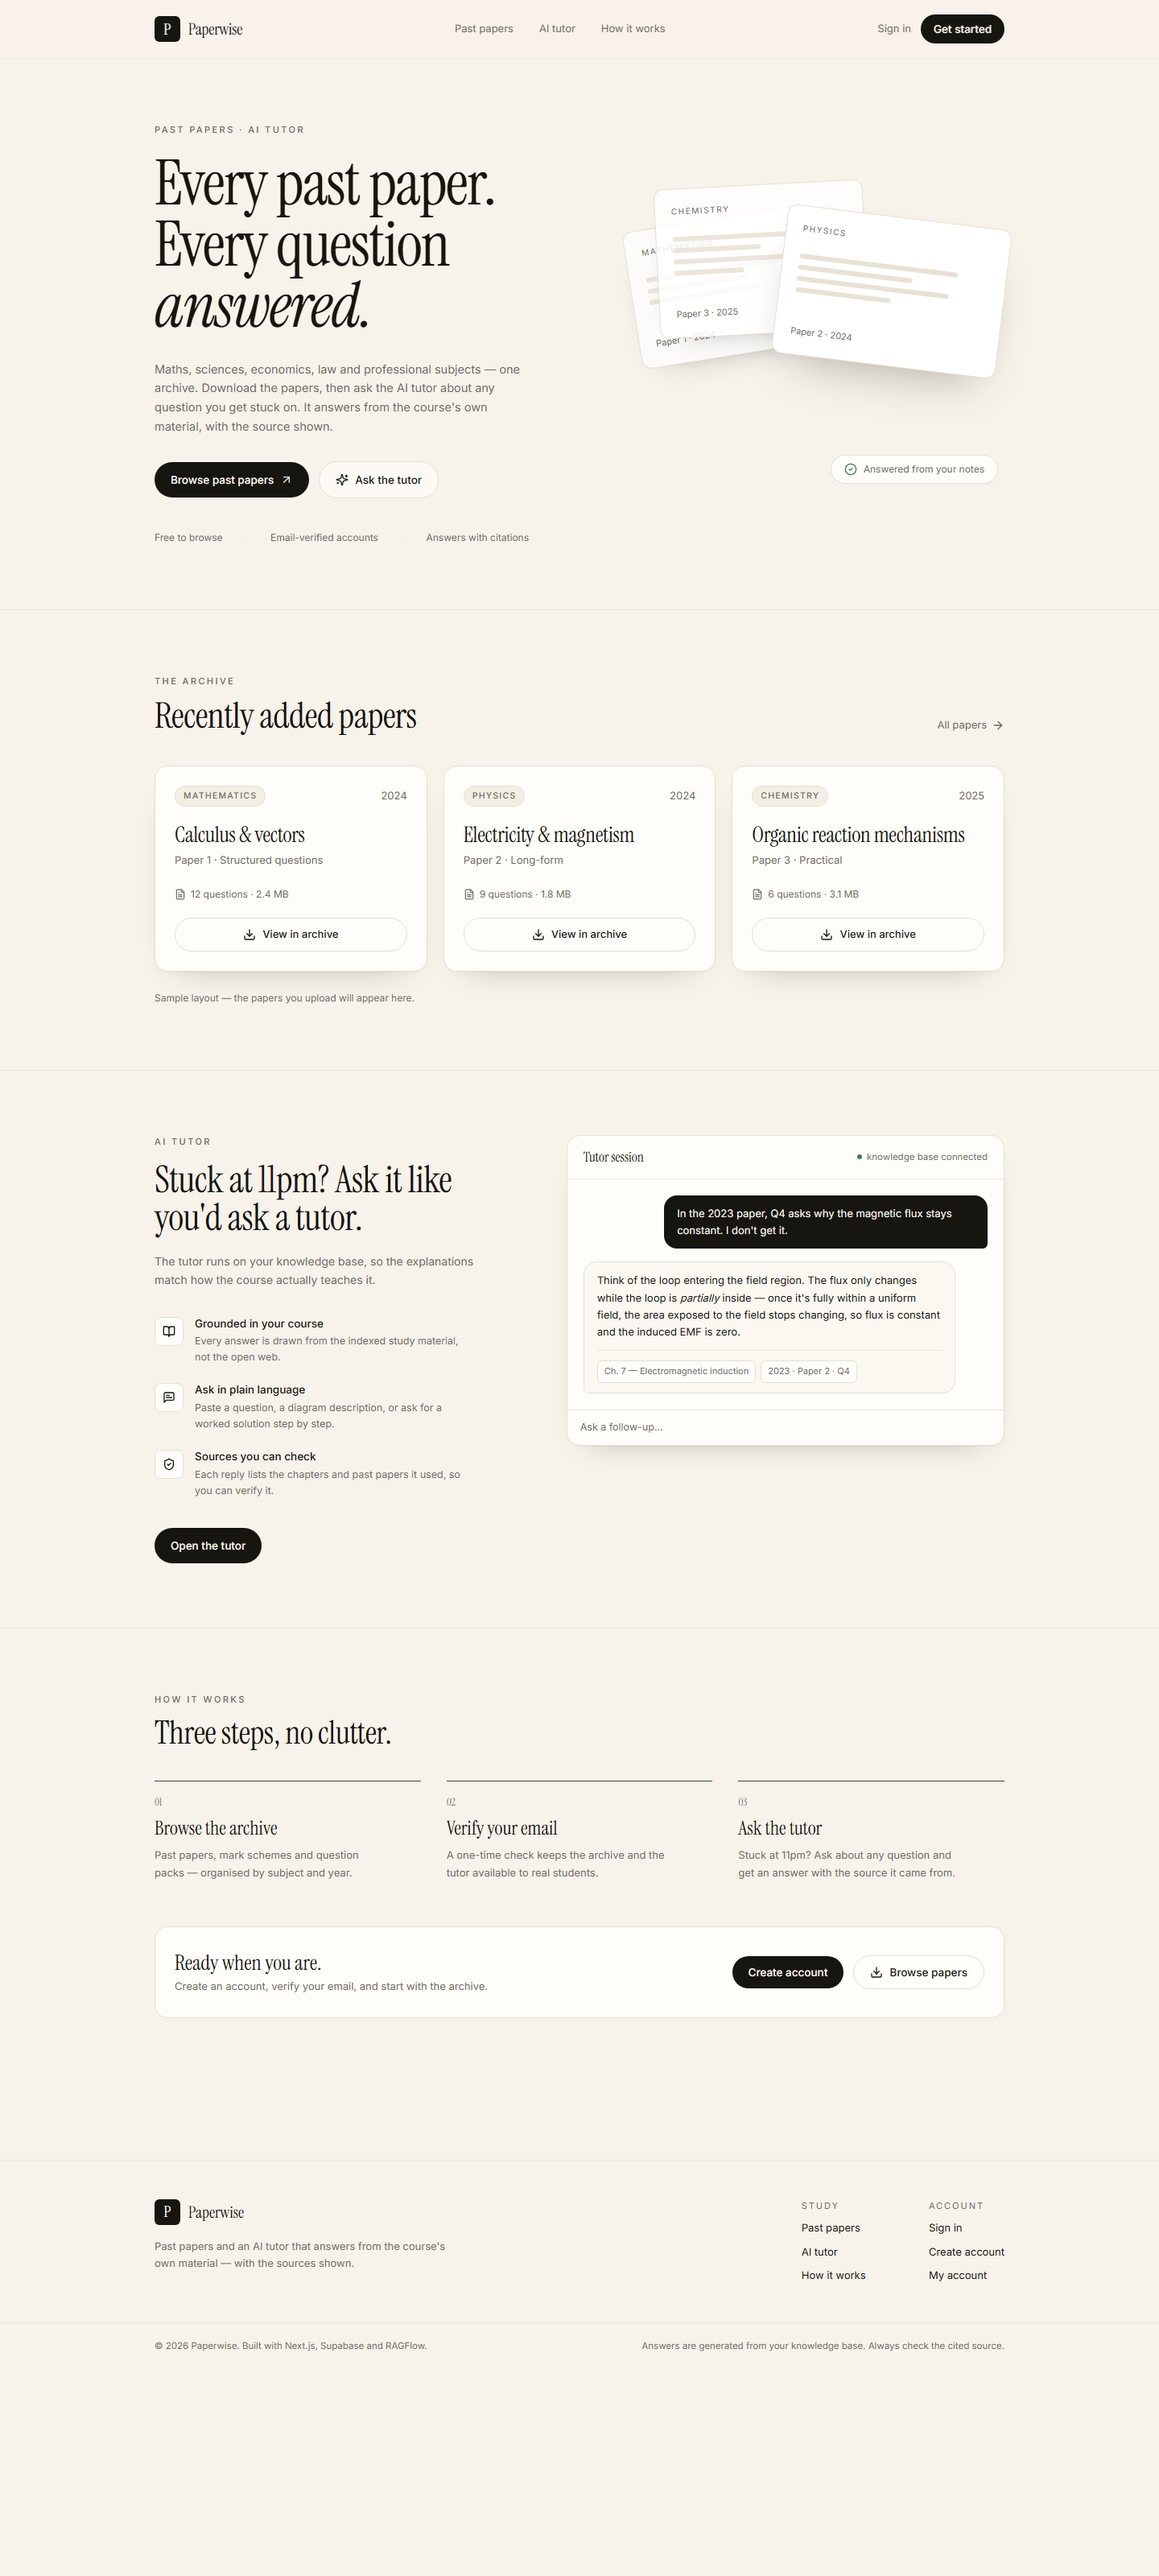
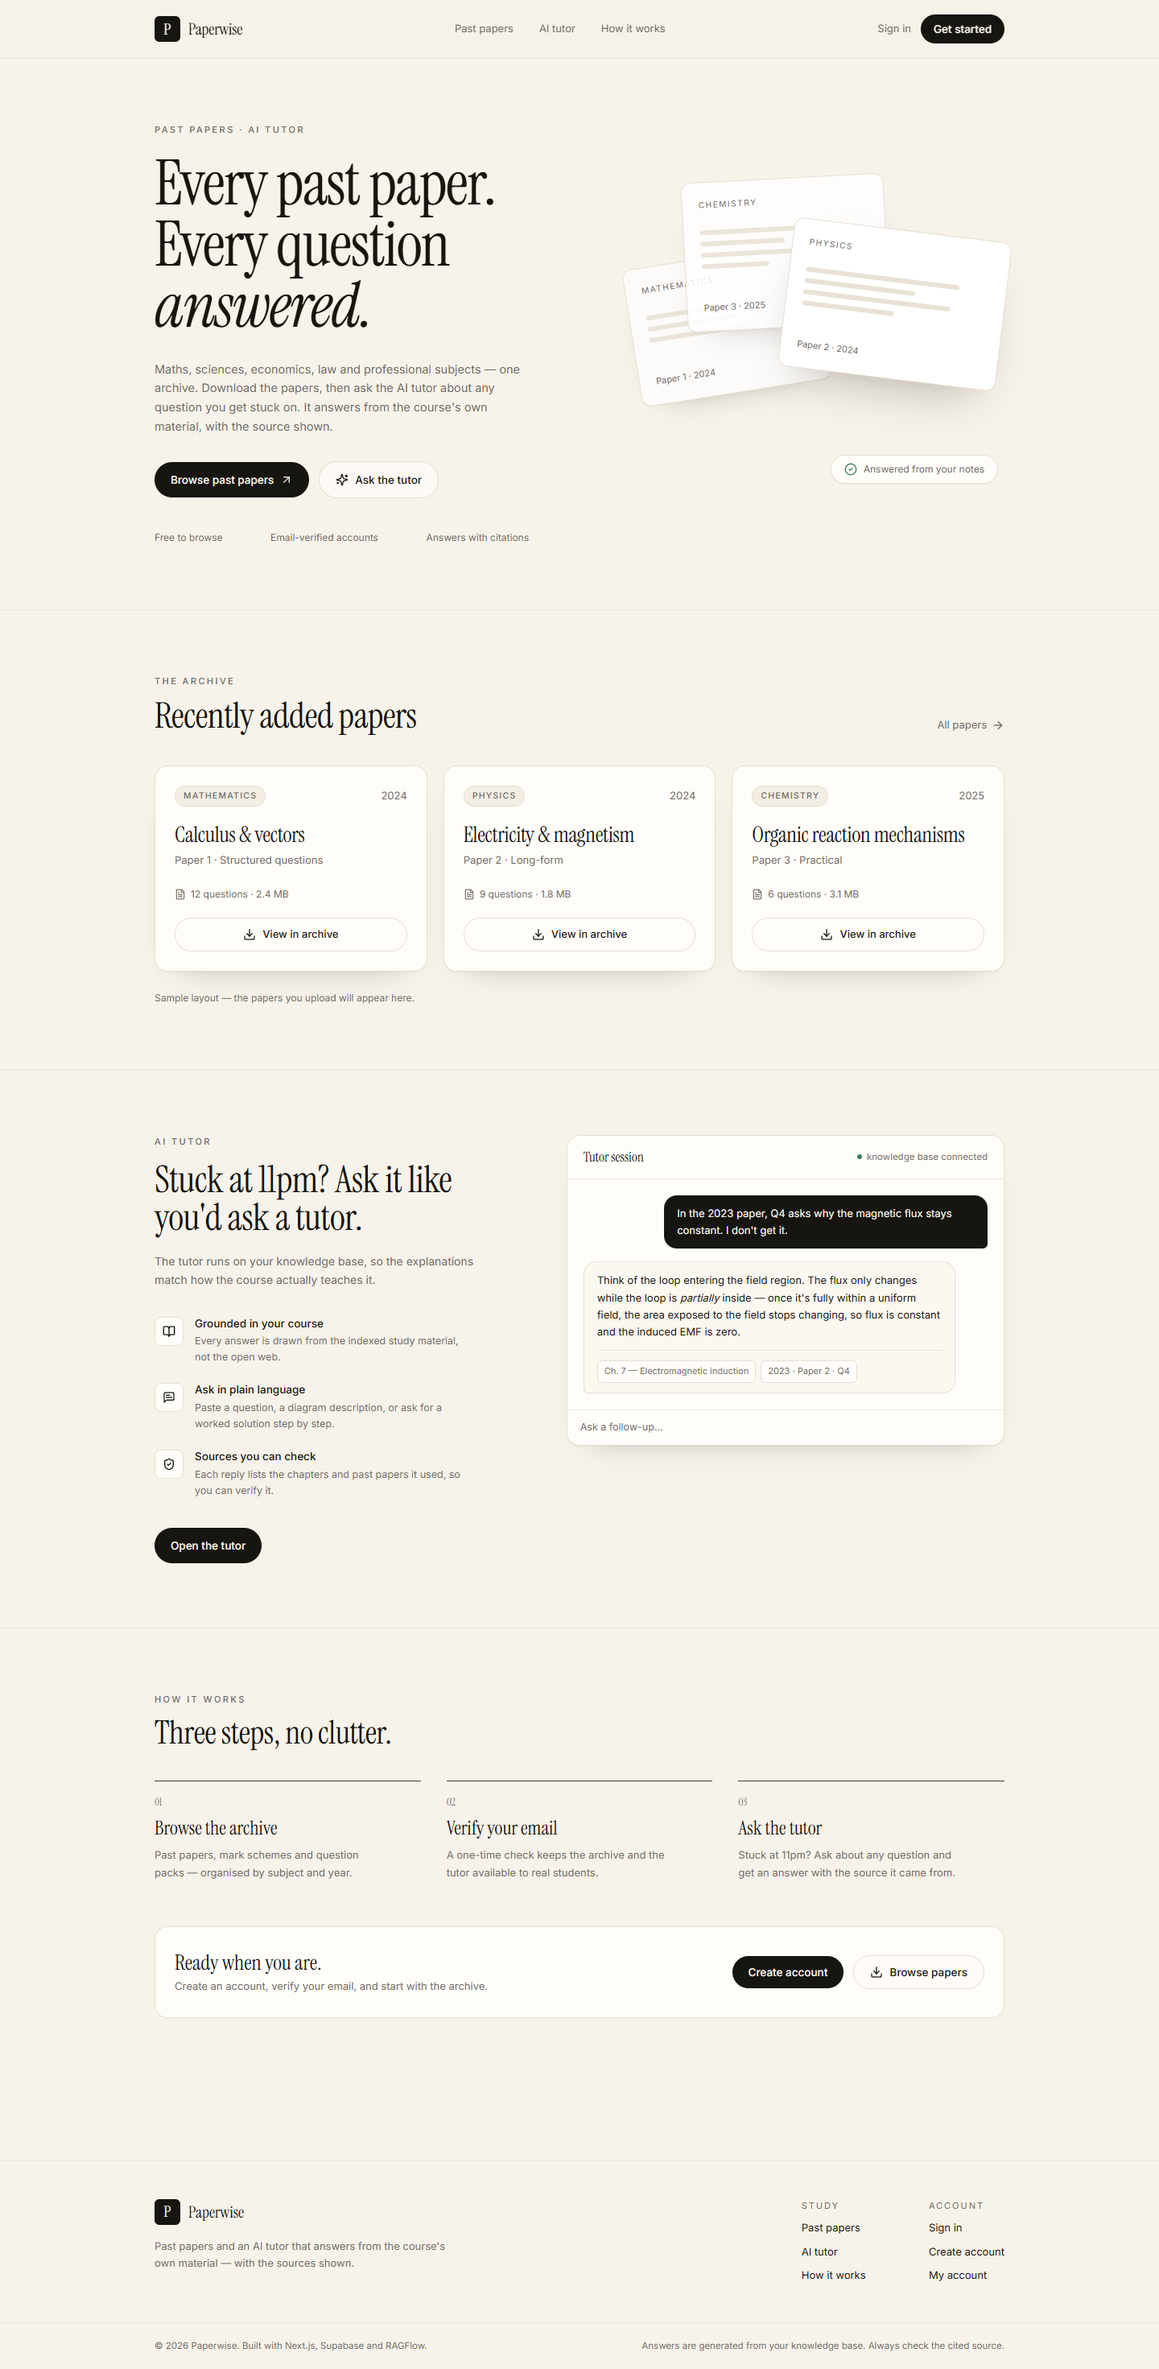
Refine hero paper stack; document live deployment

diff --git a/app/page.tsx b/app/page.tsx
@@ -17,7 +17,7 @@ import { samplePapers } from '@/lib/papers';
 function HeroPapers() {
   return (
     <div className="relative hidden h-[420px] lg:block" aria-hidden>
-      <div className="absolute left-0 top-16 w-[250px] -rotate-[9deg] rounded-xl border border-line bg-white/70 p-5 shadow-card">
+      <div className="absolute left-0 top-28 w-[238px] -rotate-[9deg] rounded-xl border border-line bg-white/70 p-5 shadow-card">
         <p className="text-[10px] uppercase tracking-[0.16em] text-muted">Mathematics</p>
         <div className="mt-6 space-y-2">
           <div className="h-1.5 w-4/5 rounded-full bg-line/80" />
@@ -27,7 +27,7 @@ function HeroPapers() {
         <p className="mt-10 text-[11px] text-muted">Paper 1 · 2024</p>
       </div>
 
-      <div className="absolute left-8 top-6 w-[260px] -rotate-[3deg] rounded-xl border border-line bg-white/85 p-5 shadow-card">
+      <div className="absolute left-[66px] top-4 w-[252px] -rotate-[3deg] rounded-xl border border-line bg-white/85 p-5 shadow-card">
         <p className="text-[10px] uppercase tracking-[0.16em] text-muted">Chemistry</p>
         <div className="mt-6 space-y-2">
           <div className="h-1.5 w-3/4 rounded-full bg-line/80" />
@@ -38,7 +38,7 @@ function HeroPapers() {
         <p className="mt-10 text-[11px] text-muted">Paper 3 · 2025</p>
       </div>
 
-      <div className="absolute right-0 top-16 w-[280px] rotate-[7deg] rounded-xl border border-line bg-white p-5 shadow-float">
+      <div className="absolute right-0 top-20 w-[272px] rotate-[7deg] rounded-xl border border-line bg-white p-5 shadow-float">
         <p className="text-[10px] uppercase tracking-[0.16em] text-muted">Physics</p>
         <div className="mt-6 space-y-2">
           <div className="h-1.5 w-5/6 rounded-full bg-line/90" />

diff --git a/README.md b/README.md
@@ -13,6 +13,19 @@ The design follows the supplied reference: warm cream canvas, serif display type
 | --- | --- | --- |
 | ![Landing](docs/screenshots/home.png) | ![Archive](docs/screenshots/archive.png) | ![Tutor](docs/screenshots/tutor.png) |
 
+**Deployed:** [timi114514.github.io/TiMi.github.io](https://timi114514.github.io/TiMi.github.io/)
+
+Already configured in the Supabase project `wksdpsmxwybsmtjjipxa`:
+
+- `profiles`, `papers`, `downloads` tables with RLS and six starter papers
+- Email/password auth with confirmation required
+- Site URL `https://timi114514.github.io/TiMi.github.io/` and redirect allow-list for `/auth/callback` (plus `http://localhost:3000/**`)
+
+Still environment-dependent:
+
+- RAGFlow runs on the owner's machine (`http://localhost:9380`). The public site therefore reads the archive from Supabase and the tutor reports a connection error until RAGFlow gets a public URL (tunnel or server). On the owner's machine the tutor and the full 700-document archive work.
+- Supabase's built-in email sender has low limits. Add custom SMTP (Authentication → Emails) for reliable verification in production.
+
 ---
 
 ## 1. Quick start (local)
@@ -84,6 +97,8 @@ The app talks to RAGFlow from the browser, so the RAGFlow API server must be rea
 
 ## 4. Deploy to GitHub Pages
 
+**Live:** https://timi114514.github.io/TiMi.github.io/
+
 Repository: `https://github.com/TiMi114514/TiMi.github.io`
 
 Because the repository is not named `TiMi114514.github.io`, Pages serves it as a **project site**:
@@ -92,19 +107,14 @@ Because the repository is not named `TiMi114514.github.io`, Pages serves it as a
 https://timi114514.github.io/TiMi.github.io/
 ```
 
-So `NEXT_PUBLIC_BASE_PATH` must be `/TiMi.github.io`. (If you later rename the repo to `TiMi114514.github.io`, set the base path to empty.)
+So `NEXT_PUBLIC_BASE_PATH` is `/TiMi.github.io` (the workflow defaults to it; the repo variable can override it). If you later rename the repo to `TiMi114514.github.io` or attach a custom domain, set the variable to empty.
 
-1. **Settings → Pages → Build and deployment → Source: GitHub Actions.**
-2. Add repository variables (**Settings → Secrets and variables → Actions → Variables**):
-   - `NEXT_PUBLIC_SUPABASE_URL`
-   - `NEXT_PUBLIC_RAGFLOW_BASE_URL`
-   - `NEXT_PUBLIC_RAGFLOW_CHAT_ID`
-   - `NEXT_PUBLIC_RAGFLOW_DATASET_ID`
-   - `NEXT_PUBLIC_BASE_PATH` = `/TiMi.github.io` (the workflow already defaults to this when unset)
-3. Add secrets (**Secrets**):
-   - `NEXT_PUBLIC_SUPABASE_ANON_KEY`
-   - `NEXT_PUBLIC_RAGFLOW_API_KEY`
-4. Push to `main`. [`.github/workflows/deploy.yml`](.github/workflows/deploy.yml) builds the static export and publishes `out/`.
+Pages is configured with **Build and deployment → Source: GitHub Actions**. The workflow has built-in defaults for every non-secret value (Supabase URL + publishable key, RAGFlow chat id / dataset ids, base path), so only the RAGFlow API key needs adding as a repository variable or secret:
+
+- Variable or secret: `NEXT_PUBLIC_RAGFLOW_API_KEY`
+- Optional overrides: `NEXT_PUBLIC_SUPABASE_URL`, `NEXT_PUBLIC_SUPABASE_ANON_KEY`, `NEXT_PUBLIC_RAGFLOW_BASE_URL`, `NEXT_PUBLIC_RAGFLOW_CHAT_ID`, `NEXT_PUBLIC_RAGFLOW_DATASET_ID`, `NEXT_PUBLIC_BASE_PATH`
+
+Push to `main` and [`.github/workflows/deploy.yml`](.github/workflows/deploy.yml) publishes `out/`.
 
 Local production build:
 
